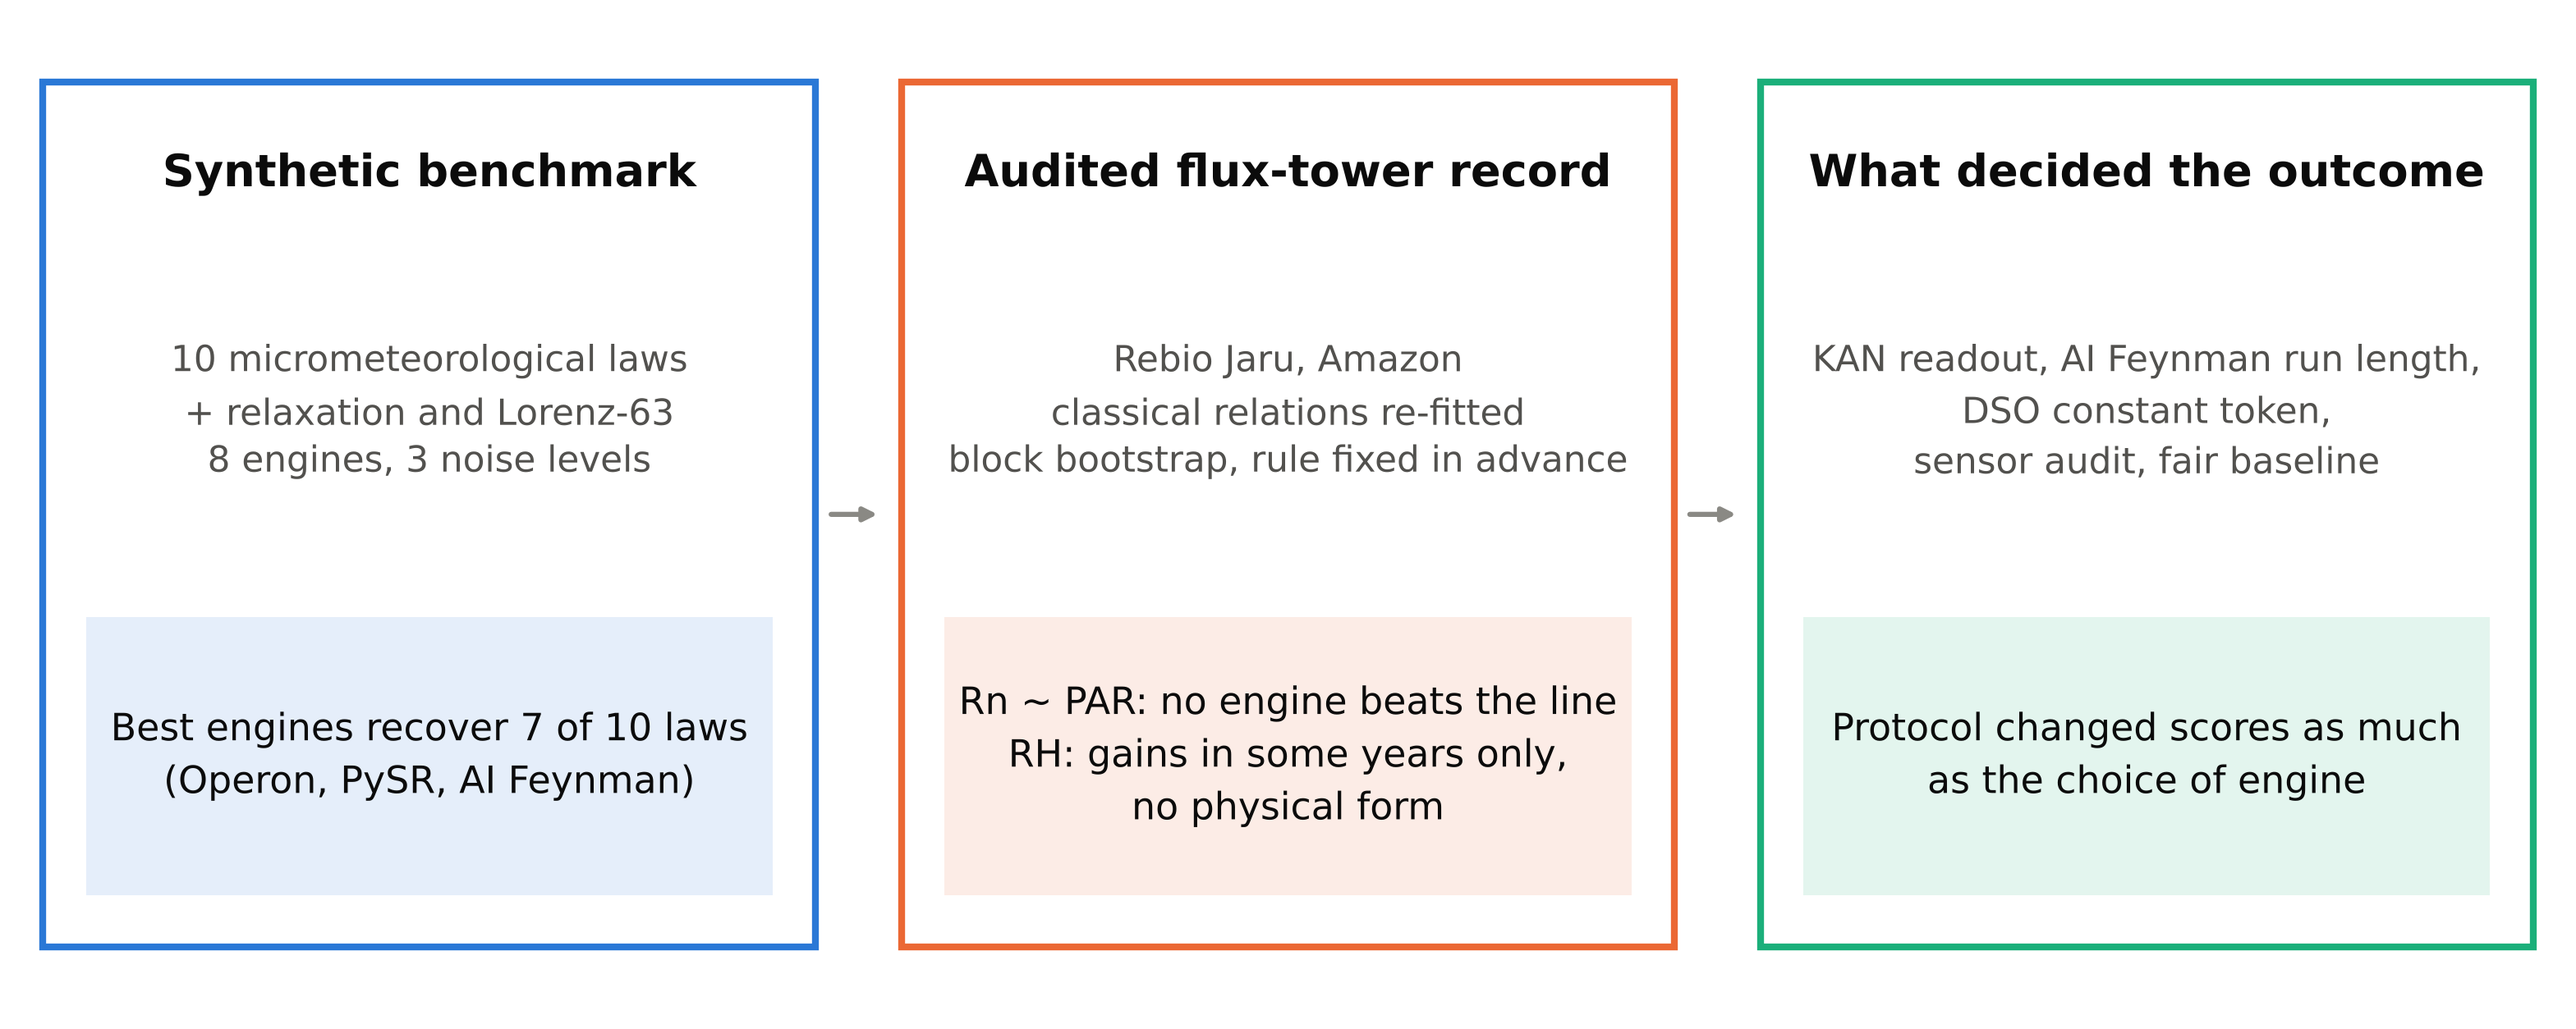
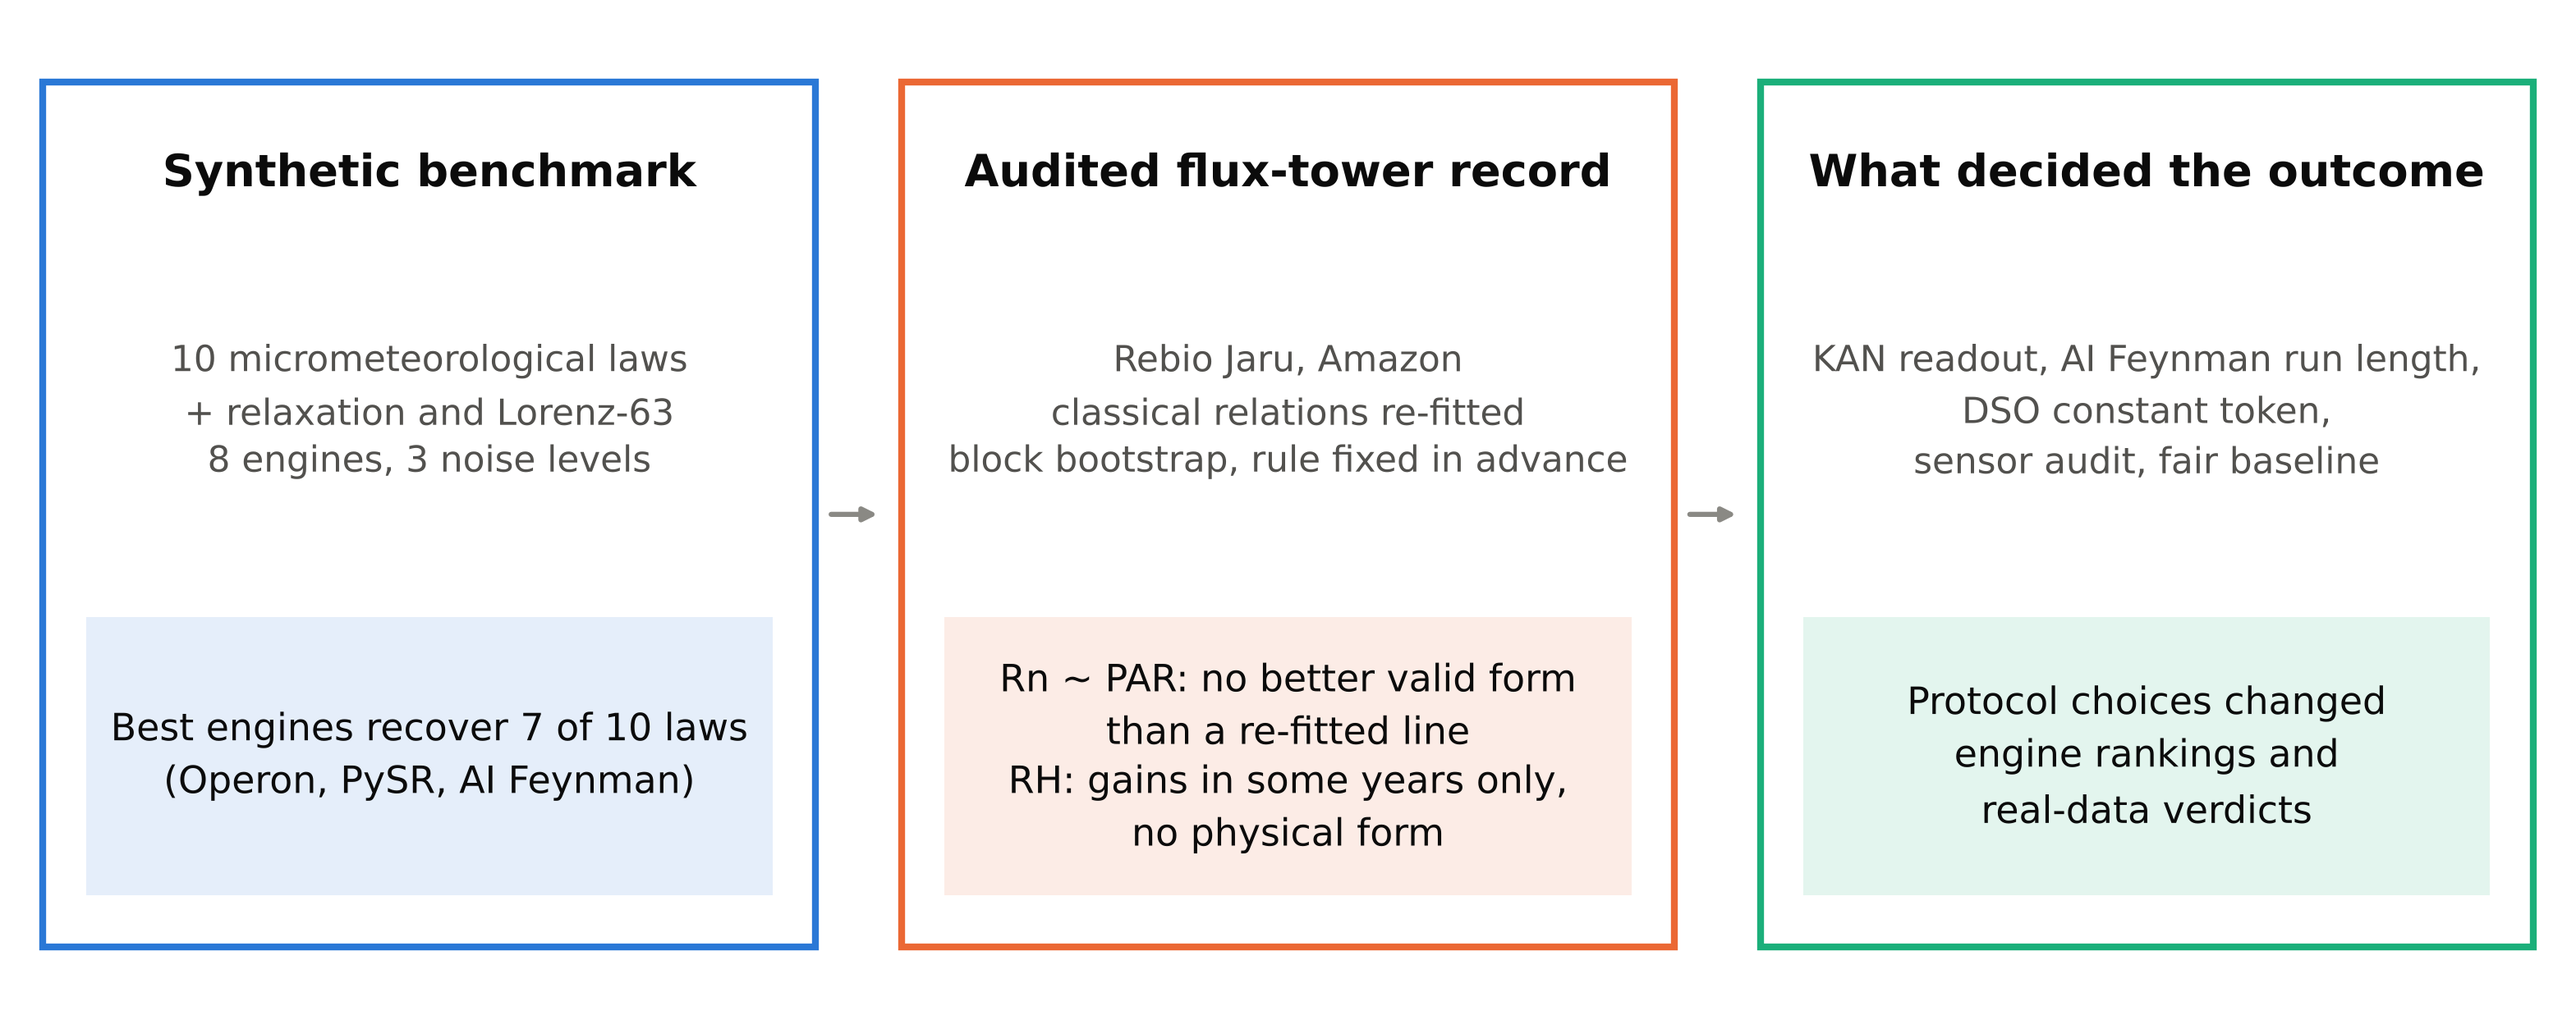
Align graphical abstract wording with the manuscript
The Rn panel now says no better valid form than a re-fitted line, and
the protocol panel says protocol choices changed rankings and verdicts,
matching the abstract and highlights.

Claude-Session: https://claude.ai/code/session_01Uq4Ai4pYpmwn1GJa7S3KrL

Changed region(s): [[0.3749, 0.6531, 0.6248, 0.8397], [0.7185, 0.6531, 0.9684, 0.8086]]

diff --git a/analysis/make_figures.py b/analysis/make_figures.py
@@ -155,9 +155,9 @@ boxes = [
     (0.05, "Synthetic benchmark", "10 micrometeorological laws\n+ relaxation and Lorenz-63\n8 engines, 3 noise levels",
      "Best engines recover 7 of 10 laws\n(Operon, PySR, AI Feynman)", BLUE),
     (1.05, "Audited flux-tower record", "Rebio Jaru, Amazon\nclassical relations re-fitted\nblock bootstrap, rule fixed in advance",
-     "Rn ~ PAR: no engine beats the line\nRH: gains in some years only,\nno physical form", ORANGE),
+     "Rn ~ PAR: no better valid form\nthan a re-fitted line\nRH: gains in some years only,\nno physical form", ORANGE),
     (2.05, "What decided the outcome", "KAN readout, AI Feynman run length,\nDSO constant token,\nsensor audit, fair baseline",
-     "Protocol changed scores as much\nas the choice of engine", "#1baf7a"),
+     "Protocol choices changed\nengine rankings and\nreal-data verdicts", "#1baf7a"),
 ]
 for x, title, body, result, col in boxes:
     ax.add_patch(plt.Rectangle((x, 0.08), 0.9, 0.84, fc="white", ec=col, lw=2))
